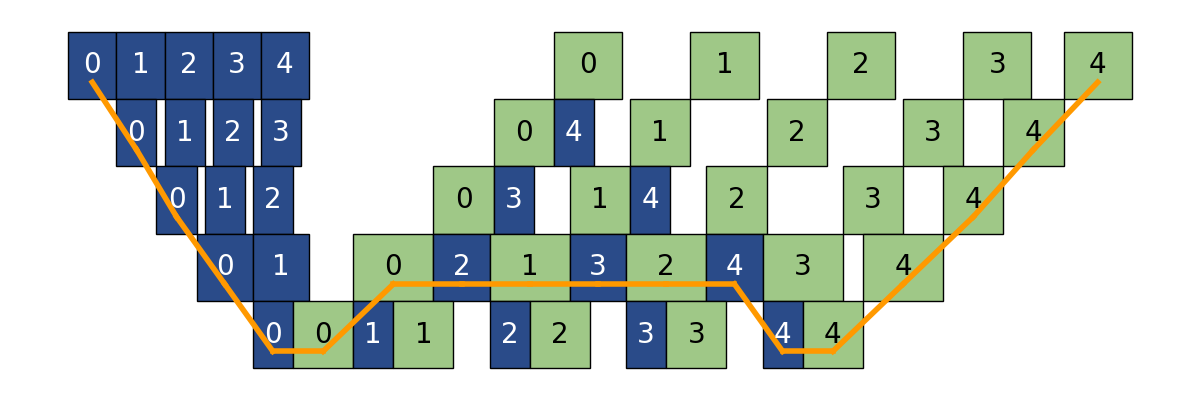
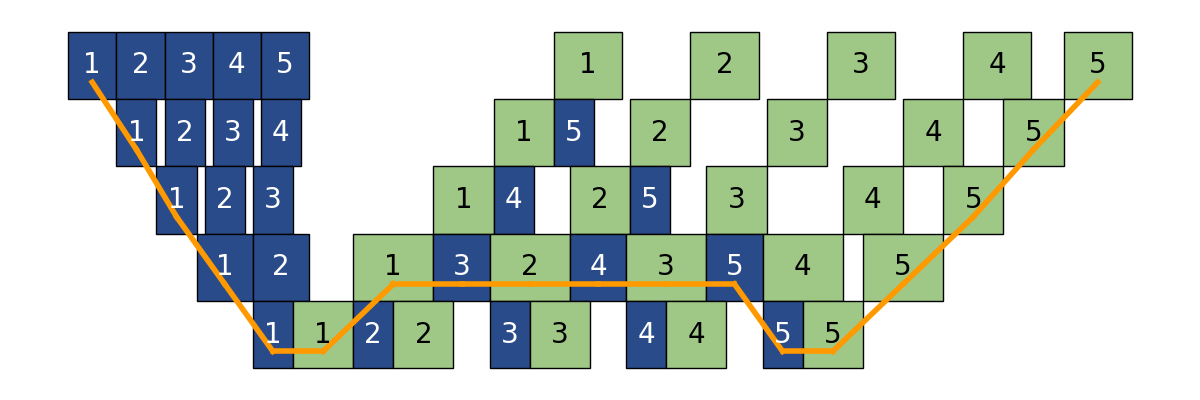
Batch index from 1, allow customization with `Instruction.draw`

diff --git a/rene/instruction.py b/rene/instruction.py
@@ -1,6 +1,10 @@
 from __future__ import annotations
 
 from dataclasses import dataclass, field
+from typing import Any
+from matplotlib.axes import Axes
+
+from matplotlib.patches import Rectangle
 
 
 class InstructionType(type):
@@ -67,6 +71,32 @@ class Instruction(metaclass=InstructionType):
         """Declare that `other` depends on the completion of this instruction."""
         self.children.append(other)
         other.parents.append(self)
+
+    def draw(
+        self,
+        ax: Axes,
+        rectangle_args: dict[InstructionType, dict[str, Any]],
+        annotation_args: dict[InstructionType, dict[str, Any]],
+    ) -> None:
+        """Draw the instruction on the Axes object.
+
+        Override this method to change how instructions are drawn.
+        """
+        final_rectangle_args = dict(
+            xy=(self.actual_start, self.stage_id),
+            width=self.actual_duration,
+            height=1.0,
+        )
+        final_rectangle_args.update(rectangle_args[type(self)])
+        rectangle = Rectangle(**final_rectangle_args)
+        ax.add_patch(rectangle)
+        # Annotate the micro batch number inside the rectangle
+        final_annotation_args = dict(
+            text=str(self.micro_batch_id + 1),  # Draw with base index 1.
+            xy=(rectangle.get_x() + rectangle.get_width() / 2, rectangle.get_y() + 0.5),  # type: ignore
+        )
+        final_annotation_args.update(annotation_args[type(self)])
+        ax.annotate(**final_annotation_args)
 
 
 class Forward(Instruction):

diff --git a/rene/visualizer.py b/rene/visualizer.py
@@ -51,21 +51,7 @@ class PipelineVisualizer:
         """Draw the pipeline on the given Axes object."""
         for inst in self.dag.insts:
             # Draw rectangle for Instructions
-            rectangle_args = dict(
-                xy=(inst.actual_start, inst.stage_id),
-                width=inst.actual_duration,
-                height=1.0,
-            )
-            rectangle_args.update(self.rectangle_args[type(inst)])
-            rectangle = Rectangle(**rectangle_args)
-            ax.add_patch(rectangle)
-            # Annotate the micro batch number inside the rectangle
-            annotation_args = dict(
-                text=str(inst.micro_batch_id),
-                xy=(rectangle.get_x() + rectangle.get_width() / 2, rectangle.get_y() + 0.5),  # type: ignore
-            )
-            annotation_args.update(self.annotation_args[type(inst)])
-            ax.annotate(**annotation_args)
+            inst.draw(ax, self.rectangle_args, self.annotation_args)
 
         ax.set_axis_off()
         ax.autoscale()
